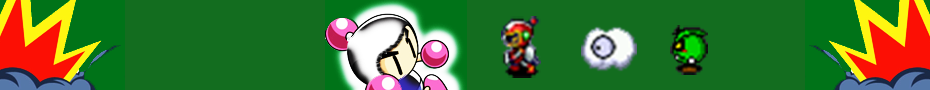
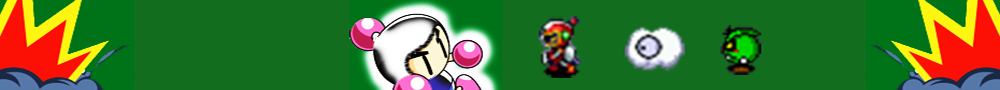
colocacion de panel usuario.

diff --git a/Proyecto X/src/GUI/GUI.java b/Proyecto X/src/GUI/GUI.java
@@ -20,8 +20,12 @@ import java.awt.event.KeyEvent;
 public class GUI {
 	private JFrame frmProyecto;
 	private JLayeredPane panelJuego;
-	private TextField textField_Puntaje;
-	private TextField textField_Tiempo;
+	private JLabel textField_Puntaje;
+	private JLabel textField_Tiempo;
+	private JLabel lblSpe;
+	private JLabel lblFat;
+	private JLabel lblBom;
+	private JLabel lblMasImg;
 	
 	private volatile boolean lock = false;
 	private int direction = -1;
@@ -54,12 +58,12 @@ public GUI() {
 		frmProyecto.setResizable(false);
 		frmProyecto.setTitle("Proyecto X");
 		frmProyecto.getContentPane().setBackground(Color.GREEN);
-		frmProyecto.setBounds(50, 50, 936,512);
+		frmProyecto.setBounds(50, 50, 1006,512);
 		frmProyecto.setDefaultCloseOperation(JFrame.EXIT_ON_CLOSE);
 		frmProyecto.getContentPane().setLayout(null);
 		
 		JPanel panelPrincipal = new JPanel();
-		panelPrincipal.setBounds(0, 0, 930, 483);
+		panelPrincipal.setBounds(0, 0, 1000, 483);
 		panelPrincipal.setForeground(Color.BLACK);
 		panelPrincipal.setBackground(Color.GRAY);
 		frmProyecto.getContentPane().add(panelPrincipal);
@@ -68,13 +72,13 @@ public GUI() {
 		
 		
 		JPanel panelUsuario = new JPanel();
-		panelUsuario.setBounds(0, 0, 930, 90);
+		panelUsuario.setBounds(0, 0, 1000, 90);
 		panelPrincipal.add(panelUsuario);
 		panelUsuario.setLayout(null);
 			
 		JLabel lblPuntaje = new JLabel("Puntaje");
 		lblPuntaje.setForeground(Color.MAGENTA);
-		lblPuntaje.setBounds(157, 0, 145, 35);
+		lblPuntaje.setBounds(175, 0, 145, 35);
 		lblPuntaje.setFont(new Font("Castellar", Font.BOLD, 27));
 		panelUsuario.add(lblPuntaje);
 		
@@ -82,31 +86,84 @@ public GUI() {
 		
 		JLabel lblTiempo = new JLabel("Tiempo");
 		lblTiempo.setForeground(Color.MAGENTA);
-		lblTiempo.setBounds(726, 0, 133, 35);
+		lblTiempo.setBounds(772, 0, 133, 35);
 		lblTiempo.setFont(new Font("Castellar", Font.BOLD, 27));
 		panelUsuario.add(lblTiempo);
 		
-		textField_Puntaje = new TextField();
-		textField_Puntaje.setEnabled(false);
-		textField_Puntaje.setEditable(false);
+		textField_Puntaje = new JLabel();
+		textField_Puntaje.setHorizontalAlignment(SwingConstants.CENTER);
+		textField_Puntaje.setForeground(new Color(255, 0, 0));
 		textField_Puntaje.setFont(new Font("Dialog", Font.PLAIN, 40));
-		textField_Puntaje.setText("  0");
-		textField_Puntaje.setBounds(168, 37, 116, 43);
+		textField_Puntaje.setText("0");
+		textField_Puntaje.setBounds(168, 37, 152, 43);
 		
 		panelUsuario.add(textField_Puntaje);
 		
-		textField_Tiempo = new TextField();
-		textField_Tiempo.setBounds(714, 31, 180, 49);
-		textField_Tiempo.setEnabled(false);
-		textField_Tiempo.setEditable(false);
+		textField_Tiempo = new JLabel();
+		textField_Tiempo.setHorizontalAlignment(SwingConstants.CENTER);
+		textField_Tiempo.setForeground(new Color(255, 0, 0));
+		textField_Tiempo.setBounds(749, 34, 180, 49);
 		textField_Tiempo.setFont(new Font("Dialog", Font.PLAIN, 40));
 		textField_Tiempo.setText(" 00:00:00 ");
 		panelUsuario.add(textField_Tiempo);
 		
-		JLabel label = new JLabel("");
-		label.setBounds(0, 0, 930, 90);
-		label.setIcon(new ImageIcon(getClass().getResource("/source/Objetos/fondoPanelUsuario.png")));
-		panelUsuario.add(label);
+		JLabel labelFondoUsuario = new JLabel("");
+		labelFondoUsuario.setBounds(0, 0, 1000, 90);
+		labelFondoUsuario.setIcon(new ImageIcon(getClass().getResource("/source/Objetos/fondoPanelUsuario.png")));
+		panelUsuario.add(labelFondoUsuario);
+		
+		JPanel panelPowerUps = new JPanel();
+		panelPowerUps.setBackground(new Color(0, 128, 0));
+		panelPowerUps.setBounds(929, 90, 71, 392);
+		panelPowerUps.setLayout(null);
+		
+		
+	
+		lblSpe=new JLabel();
+		lblSpe.setText("x0");
+		getLblSpe().setForeground(Color.RED);
+		getLblSpe().setFont(new Font("Calibri", Font.BOLD, 29));
+		getLblSpe().setBounds(15, 5, 46, 36);
+		panelPowerUps.add(getLblSpe());
+		
+		JLabel lblSpeImg = new JLabel("");
+		lblSpeImg.setBounds(20, 40, 30, 30);
+		lblSpeImg.setIcon(new ImageIcon(getClass().getResource("/source/Objetos/PowerUp/SpeedUp.png")));
+		panelPowerUps.add(lblSpeImg);
+		
+		lblBom=new JLabel();
+		lblBom.setText("x0");
+		getLblBom().setFont(new Font("Calibri", Font.BOLD, 29));
+		getLblBom().setForeground(Color.RED);
+		getLblBom().setBounds(15, 142, 46, 36);
+		panelPowerUps.add(getLblBom());
+		
+		JLabel lblBomImg = new JLabel("");
+		lblBomImg.setBounds(20, 179, 30, 30);
+
+		lblBomImg.setIcon(new ImageIcon(getClass().getResource("/source/Objetos/PowerUp/Bombality.png")));
+		panelPowerUps.add(lblBomImg);
+		
+		lblFat=new JLabel();
+		lblFat.setText("x0");
+		getLblFat().setForeground(Color.RED);
+		getLblFat().setFont(new Font("Calibri", Font.BOLD, 29));
+		getLblFat().setBounds(15, 74, 46, 36);
+		panelPowerUps.add(getLblFat());
+		
+		JLabel lblFatImg = new JLabel("");
+		lblFatImg.setBounds(20, 110, 30, 30);
+
+		lblFatImg.setIcon(new ImageIcon(getClass().getResource("/source/Objetos/PowerUp/Fatality.png")));
+		panelPowerUps.add(lblFatImg);
+		
+		setLblMasImg(new JLabel(""));
+		getLblMasImg().setBounds(20, 300, 30, 30);
+		getLblMasImg().setIcon(new ImageIcon(getClass().getResource("/source/Objetos/PowerUp/Masacrality.png")));
+		panelPowerUps.add(getLblMasImg());
+		
+		
+		panelPrincipal.add(panelPowerUps);
 		
 		panelJuego = new JLayeredPane();
 		panelJuego.setOpaque(false);
@@ -114,7 +171,6 @@ public GUI() {
 		panelJuego.setBackground(new Color(34, 139, 34));
 		panelJuego.setLayout(null);
 		panelPrincipal.add(panelJuego);
-		
 		
 		
 		frmProyecto.addKeyListener(new KeyAdapter() {
@@ -175,11 +231,43 @@ public GUI() {
 		return this.direction;
 	}
 	
-	public TextField getMarcadorGUI(){
+	public JLabel getMarcadorGUI(){
 		return textField_Puntaje;
 	}
 	
-	public TextField getMarcadorTiempo(){
+	public JLabel getMarcadorTiempo(){
 		return textField_Tiempo;
+	}
+	
+	public JLabel getLblMasImg() {
+		return lblMasImg;
+	}
+
+	public void setLblMasImg(JLabel lblMasImg) {
+		this.lblMasImg = lblMasImg;
+	}
+
+	public JLabel getLblBom() {
+		return lblBom;
+	}
+
+	public void setLblBom(JLabel lblBom) {
+		this.lblBom = lblBom;
+	}
+
+	public JLabel getLblFat() {
+		return lblFat;
+	}
+
+	public void setLblFat(JLabel lblFat) {
+		this.lblFat = lblFat;
+	}
+
+	public JLabel getLblSpe() {
+		return lblSpe;
+	}
+
+	public void setLblSpe(JLabel lblSpe) {
+		this.lblSpe = lblSpe;
 	}
 }
